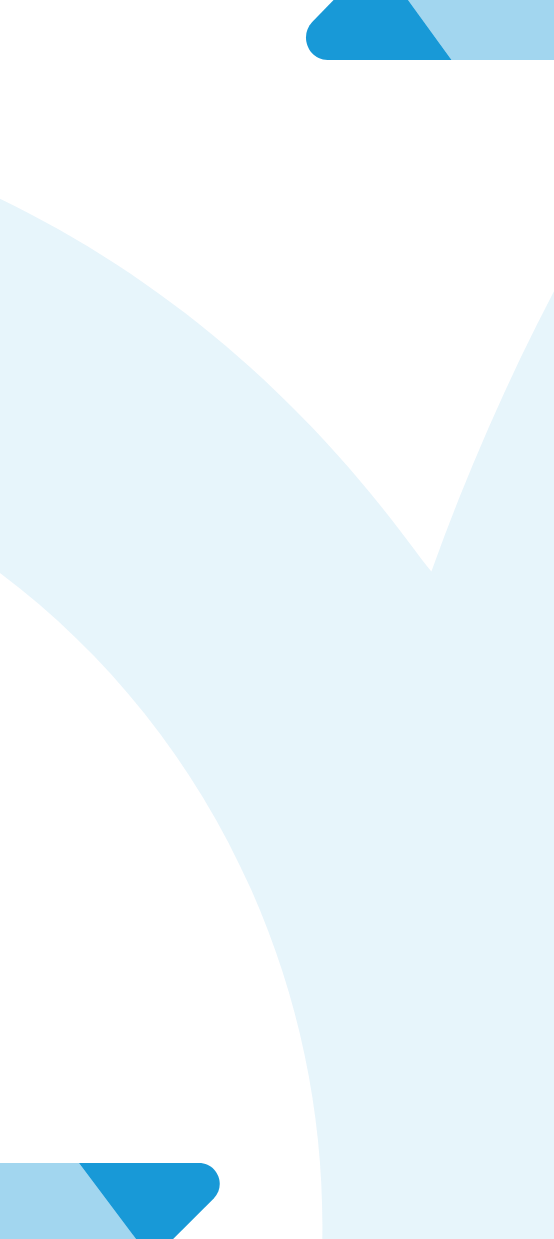
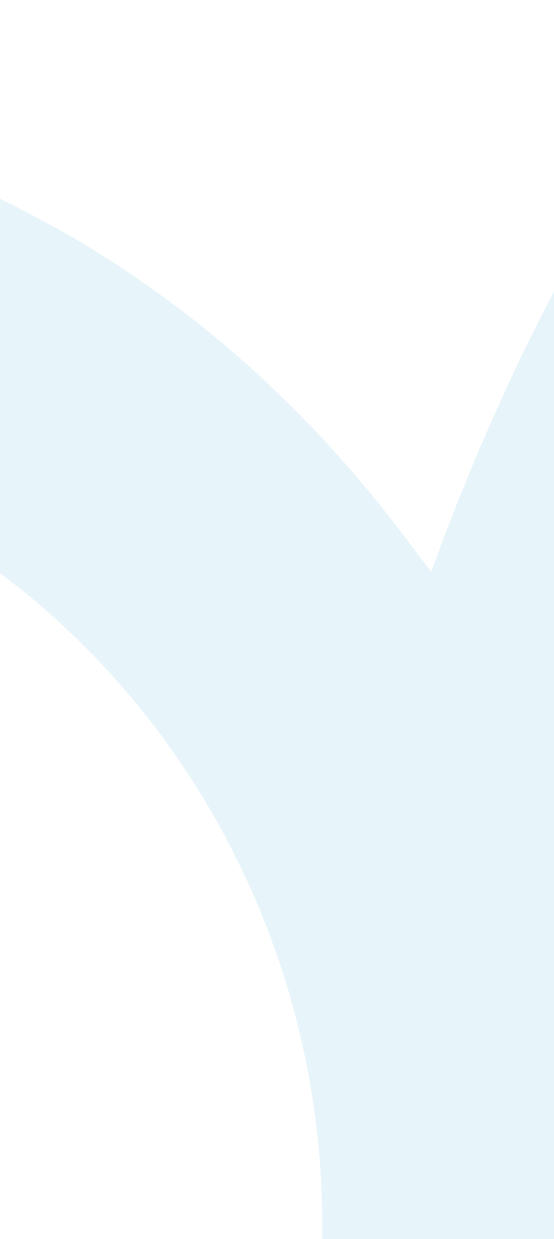
Updates

Changed region(s): [[0.0, 0.9201, 0.3989, 1.0], [0.5523, 0.0, 1.0, 0.0613]]

diff --git a/index.html b/index.html
@@ -4,31 +4,38 @@
     <meta charset="UTF-8">
     <meta http-equiv="X-UA-Compatible" content="IE=edge">
     <meta name="viewport" content="width=device-width, initial-scale=1.0">
-    <title>Sign In</title>
-    <link href="signin.css" rel="stylesheet"/>
-    <link rel="preconnect" href="https://fonts.googleapis.com"> 
+    <title>Get Started</title>
+    <link href="index.css" rel="stylesheet"/>
+    <link rel="preconnect" href="https://fonts.googleapis.com">
 </head>
 <body>
     <main>
         <div class="logo">
-        <img src="./img/Switch-logo.svg"/>
-        </div>
-        <div class="container">
-                <h2>Sign in to your account</h2>
-            <div class="form-section">
-                <form action="#">
-                    <input type="email" id="email" name="email" placeholder="Email" required/>
-                        <div class="fgt-pw">
-                        <p><a href="./forgotpassword.html">Forgot Password?</a></p>
-                        </div>
-                    <input type="password" id="password" name="password" placeholder="Password" maxlength="10" minlength="2" required="!@#$%"/>
-                    <button type="submit" value="Login">Continue</button>
-                </form>
-                <div class="sign-up">
-                    <p>Don't have an account? <a href="./signup.html">Sign up</a></p>
-                </div>
+            <img src="./img/Switch-logo.svg"/>
             </div>
-        </div>
+            <div class="container">
+                    <h2>Get started with SwitchApp</h2>
+                        <form action="#">
+                            <div class="radio">
+                                <div id="radio-1">
+                                    <input type="radio" id="p-acct" name="account-type" value="personal-account">
+                                    <label>
+                                        <h5>Personal Account</h5>
+                                        <p>Shop online or send money. All without sharing your payment info.</p>
+                                    </label>
+                                </div>
+
+                                <div id="radio-2">
+                                    <input type="radio" id="m-acct" name="account-type" value="merchant-account">
+                                    <label>
+                                        <h5>Merchant Account</h5>
+                                        <p>Let your customers Shop online and receive instant settlement. All without sharing your payment info.</p>
+                                    </label>
+                                </div>
+                            </div>
+                        </form>
+                    <a href="./signup.html"><button type="submit" value="Login">Continue</button></a>
+            </div>
     </main>
     <footer>
         <p>© Switch App</p>

diff --git a/index.css b/index.css
@@ -20,16 +20,13 @@ body{
 
 main{
     margin-top: 100px;
-    align-items: center;
-    display: flex;
-    flex-direction: column;
 }
 
-.logo{
+.logo img{
     width: 124px;
     height: auto;
+    float: left;
     margin-bottom: 20px;
-    align-self: flex-start;
 }
 
 .container h2{
@@ -46,31 +43,54 @@ main{
     padding: 50px;
     border: 1px solid rgba(112, 112, 112, 0.25);
     box-shadow: 0px 3px 6px rgba(0, 0, 0, 0.05);
-    width: 484px;
+    width: 452px;
 }
 
-.form-section input{
+.radio{
     display: flex;
     flex-direction: column;
+    align-items: flex-start;
+    gap: 20px;
+    width: 100%;
+}
+
+.radio h5{
+    font-size: 16px;
+    font-weight: 600;
+}
+
+.radio p{
     font-size: 14px;
     font-weight: 400;
-    width: 100%;
+}
+
+#radio-1{
+    display: flex;
+    gap: 15px;
+}
+
+#radio-2{
+    display: flex;
     margin-bottom: 30px;
-    padding: 0px 23px;
-    border-radius: 7px;
-    outline: none;
-    height: 45px;
+    gap: 15px;
+}
+
+.radio input{
+    font-size: 14px;
+    width: 23px;
+    -webkit-appearance: none;
+    height: 23px;
     border: 1px solid rgba(112, 112, 112, 0.3);
     box-shadow: 0px 0px 6px rgba(24, 153, 215, 0);
 }
 
-.form-section input:focus{
+.radio input:focus{
     box-shadow: 0px 0px 6px rgba(24, 153, 215, 0.9);
     border: 1px solid rgba(24, 153, 215, 1);
 }
 
 button{
-    width: 100%;
+    width: 155px;
     border-radius: 7px;
     height: 45px;
     cursor: pointer;
@@ -95,33 +115,12 @@ button:hover{
     color: rgba(25, 25, 25, 1);
 }
 
-.sign-up a{
-    font-size: 14px;
-    font-weight: 400;
-    color: rgba(24, 153, 215, 1);
-}
-
-#back-btn{
-    font-size: 14px;
-    font-weight: 600;
-    margin-top: 30px;
-    align-self: center;
-}
-
-#back-btn a{
-    color: rgba(25, 25, 25, 1);
-}
-
-#back-btn a:hover{
-    color: rgba(24, 153, 215, 1);
-}
-
 footer{
     display: flex;
     gap: 44px;
     font-size: 14px;
     font-weight: 400;
-    margin: 386px auto;
+    margin: 250px auto;
     color: rgba(25, 25, 25, 1);
 }
 footer p, a{

diff --git a/signin.html b/signin.html
@@ -4,30 +4,30 @@
     <meta charset="UTF-8">
     <meta http-equiv="X-UA-Compatible" content="IE=edge">
     <meta name="viewport" content="width=device-width, initial-scale=1.0">
-    <title>Forgot Password</title>
-    <link href="forgotpassword.css" rel="stylesheet"/>
-    <link rel="preconnect" href="https://fonts.googleapis.com"/>
-    <link rel="icon" href="./Switch-Icon.png">
+    <title>Sign In</title>
+    <link href="signin.css" rel="stylesheet"/>
+    <link rel="preconnect" href="https://fonts.googleapis.com"> 
 </head>
 <body>
     <main>
         <div class="logo">
-            <img src="./img/Switch-logo.svg"/>
+        <img src="./img/Switch-logo.svg"/>
         </div>
         <div class="container">
-                <h2>Forgot Password</h2>
+                <h2>Sign in to your account</h2>
             <div class="form-section">
                 <form action="#">
                     <input type="email" id="email" name="email" placeholder="Email" required/>
-                    <button type="submit" value="Login">Submit</button>
+                        <div class="fgt-pw">
+                        <p><a href="./forgotpassword.html">Forgot password?</a></p>
+                        </div>
+                    <input type="password" id="password" name="password" placeholder="Password" maxlength="10" minlength="2" required="!@#$%"/>
+                    <button type="submit" value="submit">Sign In</button>
                 </form>
                 <div class="sign-up">
                     <p>Don't have an account? <a href="./signup.html">Sign up</a></p>
                 </div>
             </div>
-        </div>
-        <div id="back-btn">
-            <a href="#">Go back</a>
         </div>
     </main>
     <footer>

diff --git a/signup.css b/signup.css
@@ -10,7 +10,7 @@ body{
     display: flex;
     background-attachment: fixed;
     flex-direction: column;
-    background-image: url(./img/switch-bg-intro-desktop-01.png);
+    background-image: url(./img/switch-bg-intro-desktop.png);
     background-size: 100% 100%;
     background-repeat: no-repeat;
     height: 100vh;
@@ -21,6 +21,17 @@ main{
     flex-direction: row;
     margin: auto;
     gap: 101px;
+}
+
+#back-btn{
+    display: flex;
+    align-items: flex-start;
+    height: fit-content;
+}
+
+#back-btn{
+    font-size: 18px;
+    font-weight: 600;
 }
 
 .logo img{
@@ -95,7 +106,7 @@ main{
     display: flex;
     flex-direction: column;
     font-size: 14px;
-    font-weight: 400px;
+    font-weight: 400;
     width: 100%;
     margin-bottom: 30px;
     padding: 0px 23px;
@@ -199,7 +210,10 @@ footer a:hover{
     }
     main{
         width: 100%;
-        padding: 14px;
+        padding: 0 14px;
+    }
+    #back-btn{
+        display: none;
     }
     .left-section{
         display: none;

diff --git a/signup.html b/signup.html
@@ -67,7 +67,7 @@
                         <button type="submit" value="Login">Create Merchant Account</button>
                     </form>
                     <div class="sign-up">
-                        <p>Already have an account? <a href="./index.html">Sign in</a></p>
+                        <p>Already have an account? <a href="./signin.html">Sign in</a></p>
                     </div>
                 </div>
             </div>
